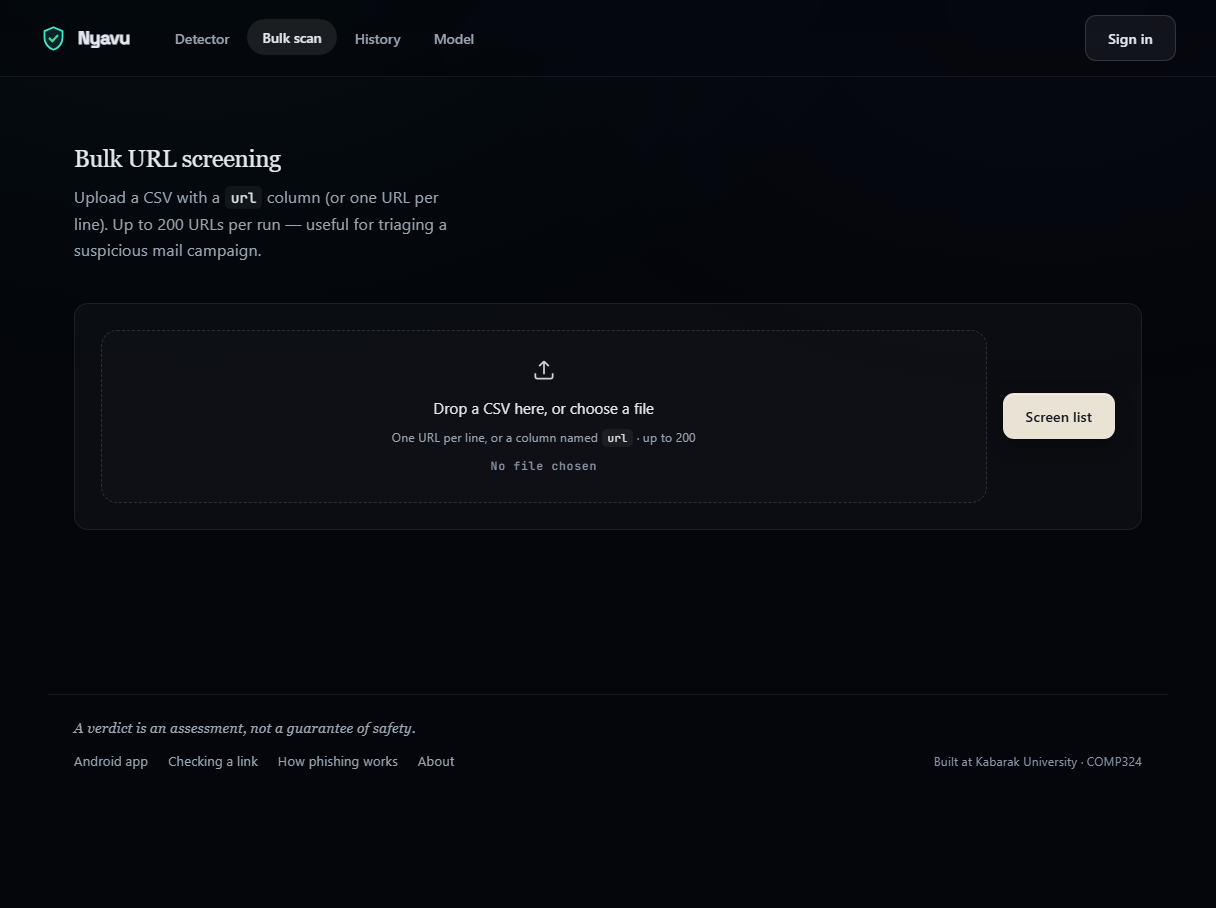
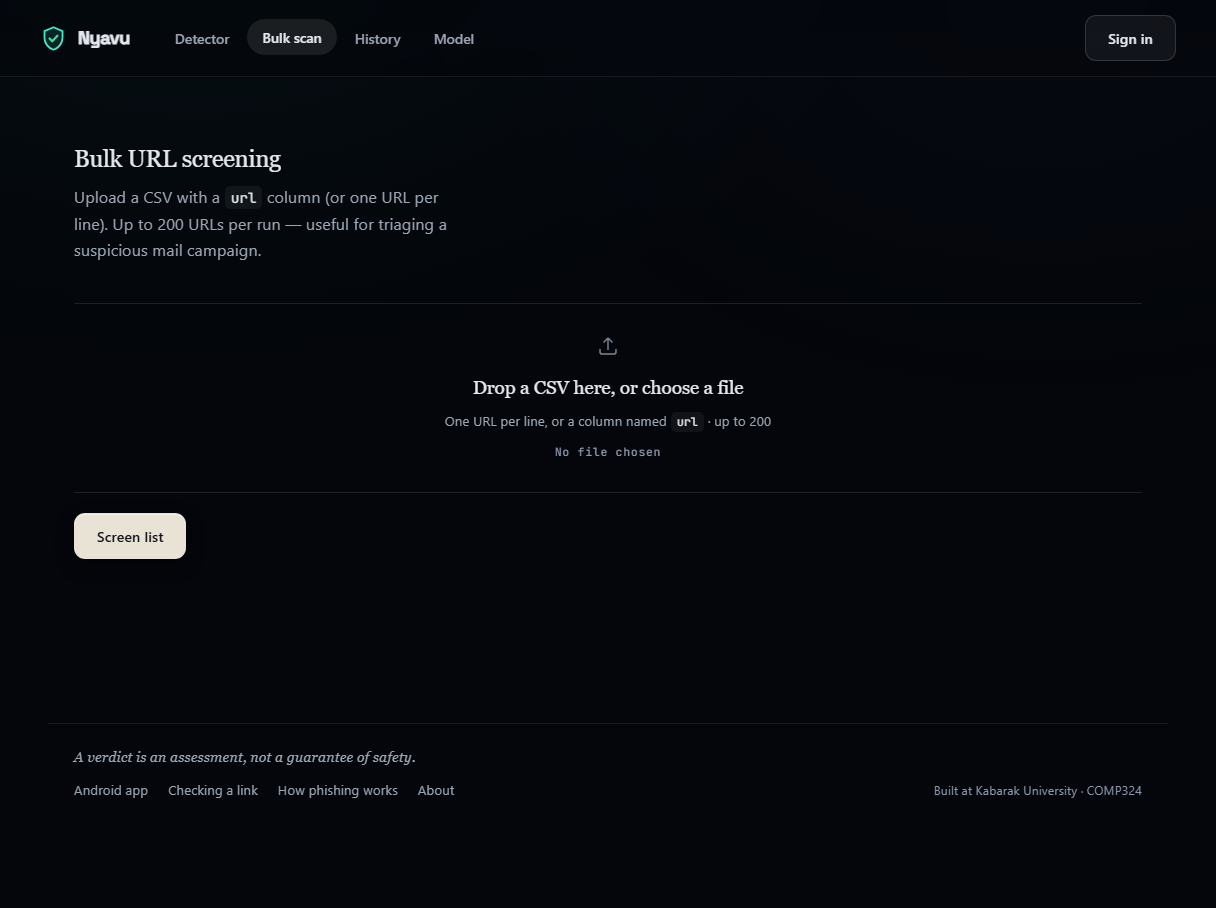
All three: history, bulk, and the two pages I had not touched
- bulk was a dashed rectangle inside a bordered panel. It is a rule-bounded drop band
  now, with the invitation set in the serif and the button beneath it
- history's empty state was a large bordered card with everything centred: a mint fish,
  a centred title, a centred paragraph, and a button that broke the alignment. It is a
  quiet left-aligned note between two rules, with the fish muted to grey
- the learn and about pages already inherit the serif headings and the new palette
  through the shared typography rules, so no work was needed beyond checking them

Every view on the site now shares one language: bone for action, red and green for
meaning, hairlines instead of boxes, serif for written matter.

diff --git a/app/static/styles.css b/app/static/styles.css
@@ -5231,3 +5231,141 @@ code, kbd, samp {
   font-size: 1.05rem;
   color: var(--text) !important;
 }
+
+/* =====================================================================
+   The last two boxes on the site
+
+   Bulk was a dashed rectangle inside a bordered panel; history was a large bordered
+   empty state with everything centred. Both are quiet blocks with rules now.
+   ===================================================================== */
+
+#bulk .panel.bulk-form {
+  display: grid !important;
+  gap: 20px;
+  background: none !important;
+  border: 0 !important;
+  border-radius: 0 !important;
+  box-shadow: none !important;
+  padding: 0 !important;
+}
+
+#bulk .dropzone {
+  display: grid !important;
+  place-items: center;
+  gap: 7px;
+  min-height: 190px;
+  padding: 30px 24px !important;
+  background: none !important;
+  border: 0 !important;
+  border-top: 1px solid rgba(255, 255, 255, .10) !important;
+  border-bottom: 1px solid rgba(255, 255, 255, .10) !important;
+  border-radius: 0 !important;
+  text-align: center;
+  transition: background .25s ease;
+}
+
+#bulk .dropzone:hover,
+#bulk .dropzone.over {
+  background: rgba(233, 227, 214, .035) !important;
+}
+
+#bulk .drop-mark svg {
+  width: 24px;
+  height: 24px;
+  color: var(--faint);
+  stroke-width: 1.4;
+}
+
+#bulk .drop-title {
+  font-family: var(--font-serif) !important;
+  font-size: 1.2rem !important;
+  font-weight: 400 !important;
+  letter-spacing: -0.01em !important;
+  color: var(--text) !important;
+}
+
+#bulk .drop-hint {
+  font-size: 0.84rem !important;
+  color: var(--muted) !important;
+}
+
+#bulk .bulk-form .btn {
+  justify-self: start;
+}
+
+/* history: a note, not a card */
+#history .panel {
+  background: none !important;
+  border: 0 !important;
+  border-radius: 0 !important;
+  box-shadow: none !important;
+  padding: 0 !important;
+}
+
+#history .empty-state {
+  display: block !important;
+  padding: 26px 0 0 !important;
+  border: 0 !important;
+  border-top: 1px solid rgba(255, 255, 255, .08) !important;
+  border-radius: 0 !important;
+  text-align: left !important;
+  background: none !important;
+}
+
+#history .empty-state svg {
+  width: 30px;
+  height: 30px;
+  color: var(--faint) !important;
+  stroke: var(--faint) !important;
+  margin: 0 0 12px !important;
+  display: block;
+}
+
+#history .empty-state h3,
+#history .empty-state h2,
+#history .empty-state strong {
+  display: block;
+  font-family: var(--font-serif) !important;
+  font-size: 1.3rem !important;
+  font-weight: 400 !important;
+  letter-spacing: -0.01em !important;
+  color: var(--text) !important;
+  margin: 0 0 8px !important;
+}
+
+#history .empty-state p {
+  max-width: 52ch;
+  margin: 0 0 18px !important;
+  font-size: 0.9rem;
+  line-height: 1.6;
+  color: var(--muted) !important;
+}
+
+#history .empty-state .btn { margin: 0 !important; }
+
+/* the empty state was centring from a parent rule; align it left at every level */
+#history .empty-state {
+  display: block !important;
+  place-items: initial !important;
+  justify-items: initial !important;
+  align-items: initial !important;
+  text-align: left !important;
+}
+
+#history .empty-state *,
+#history .empty-state p,
+#history .empty-state h2,
+#history .empty-state h3 {
+  text-align: left !important;
+  margin-left: 0 !important;
+  margin-right: 0 !important;
+}
+
+#history .empty-state svg,
+#history .empty-state svg * {
+  margin-left: 0 !important;
+  color: var(--faint) !important;
+  stroke: var(--faint) !important;
+  fill: none !important;
+  opacity: .8;
+}
